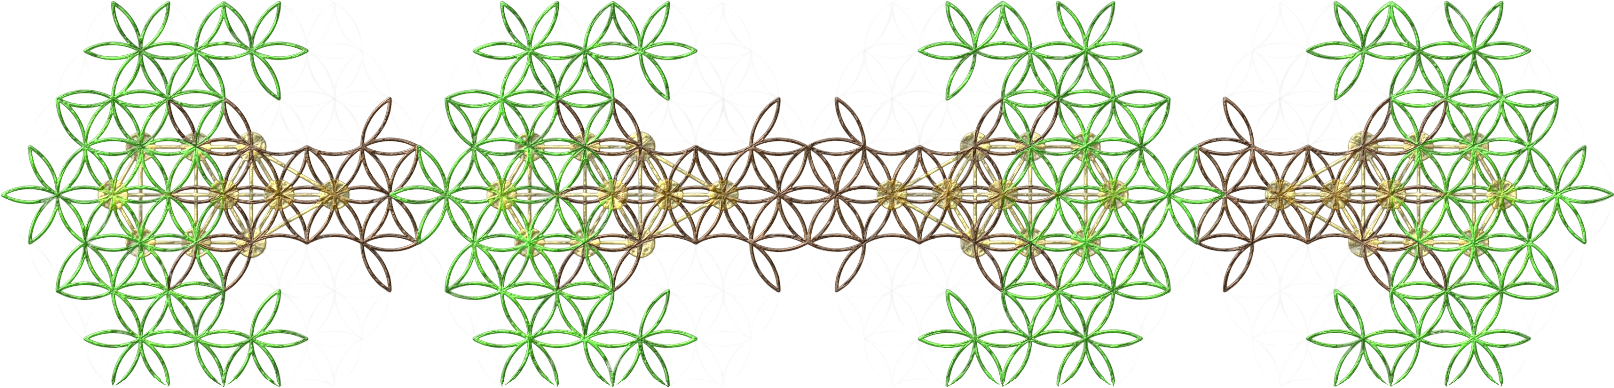
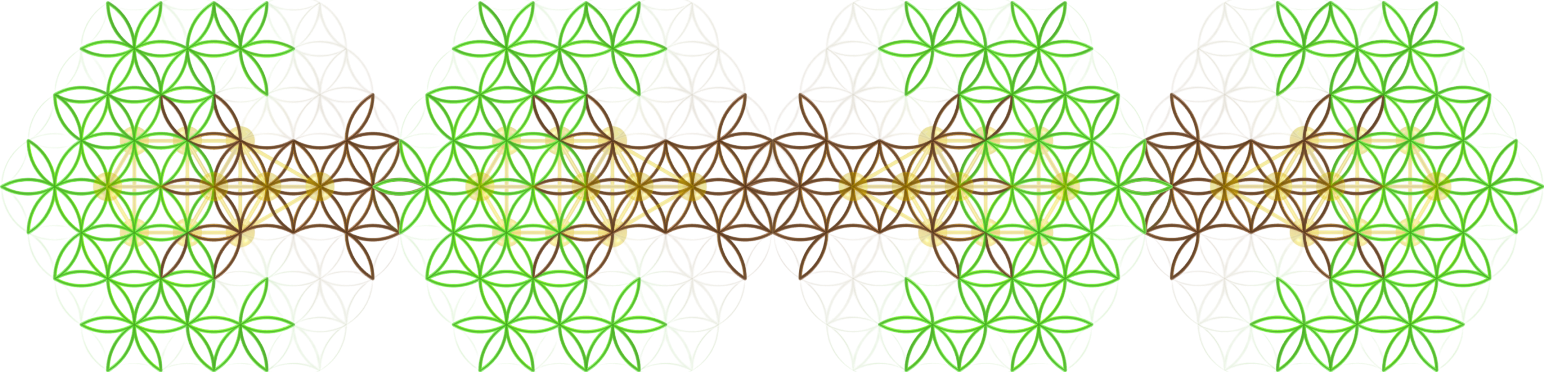
update

Changed region(s): [[0.0, 0.0, 1.0, 1.0], [0.4663, 0.6801, 0.5285, 0.7392]]

diff --git a/strips/vr/Tessellation13.htm b/strips/vr/Tessellation13.htm
@@ -38,7 +38,7 @@
 			<a-obj-model mixin="ar" src="https://paulohscwb.github.io/polyhedra/infinity/vr/outros/HexahemioctacronL.obj" mtl="#materialw"></a-obj-model>
 		</a-entity>
 			
-		<a-entity scale="0.83 0.83 0.83" id="nivel3">
+		<a-entity scale="0.83 0.83 0.83" id="nivel3" visible="false">
 			<a-gltf-model src="gltf/SmallIcosihemidodecacron12.gltf" scale="0.9985 0.9985 0.9985"></a-gltf-model>
 			<a-obj-model mixin="ar" src="https://paulohscwb.github.io/polyhedra/infinity/vr/outros/SmallIcosihemidodecacronL.obj" mtl="#materialw"></a-obj-model>
 		</a-entity>
@@ -48,7 +48,7 @@
 			<a-obj-model mixin="ar" src="https://paulohscwb.github.io/polyhedra/infinity/vr/outros/tetrahemihexacronL.obj" mtl="#materialw"></a-obj-model>
 		</a-entity>
 		
-		<a-entity scale="1.2 1.2 1.2" id="nivel5" visible="false">
+		<a-entity scale="1.2 1.2 1.2" id="nivel5">
 			<a-gltf-model src="gltf/StarGreatDodecahemicosacron12.gltf" scale="0.9985 0.9985 0.9985"></a-gltf-model>
 			<a-obj-model mixin="ar" src="gltf/StarGreatDodecahemicosacronL.obj" mtl="#materialw"></a-obj-model>
 		</a-entity>
@@ -85,9 +85,9 @@
 			<option value="0">Great Dodecahemicosacron</option>
 			<option value="1">Great Dodecahemidodecacron</option>
 			<option value="2">Hexahemioctacron</option>
-			<option value="3" selected>Small Icosihemidodecacron</option>
+			<option value="3">Small Icosihemidodecacron</option>
 			<option value="4">Tetrahemihexacron</option>
-			<option value="5">Star Great Dodecahemicosacron</option>
+			<option value="5" selected>Star Great Dodecahemicosacron</option>
 			<option value="6">Star Hexahemioctacron</option>
 			<option value="7">Star Tetrahemihexacron</option>
 		</select>